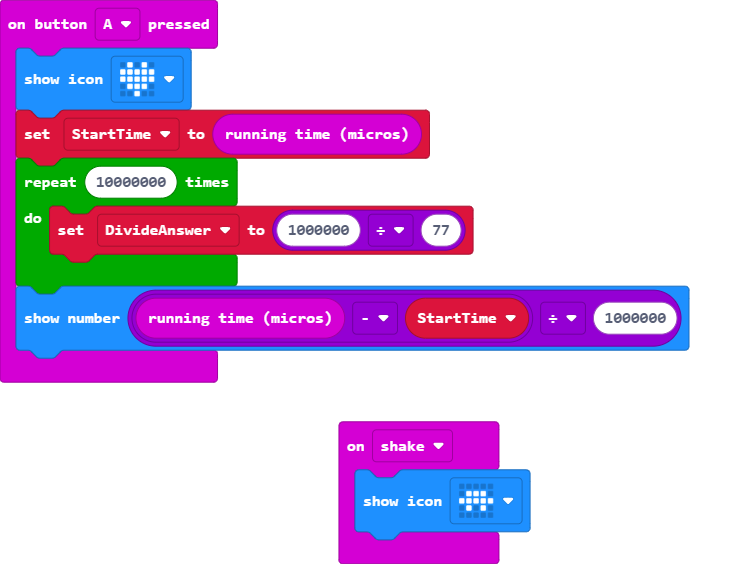
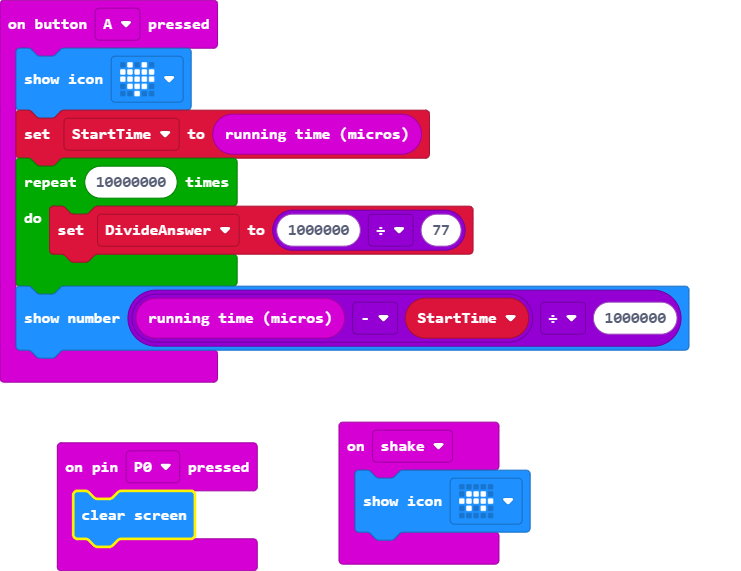
Clear Screen

diff --git a/main.ts b/main.ts
@@ -1,5 +1,8 @@
 let StartTime = 0
 let DivideAnswer = 0
+input.onPinPressed(TouchPin.P0, function () {
+    basic.clearScreen()
+})
 input.onButtonPressed(Button.A, function () {
     basic.showIcon(IconNames.Heart)
     StartTime = input.runningTimeMicros()
